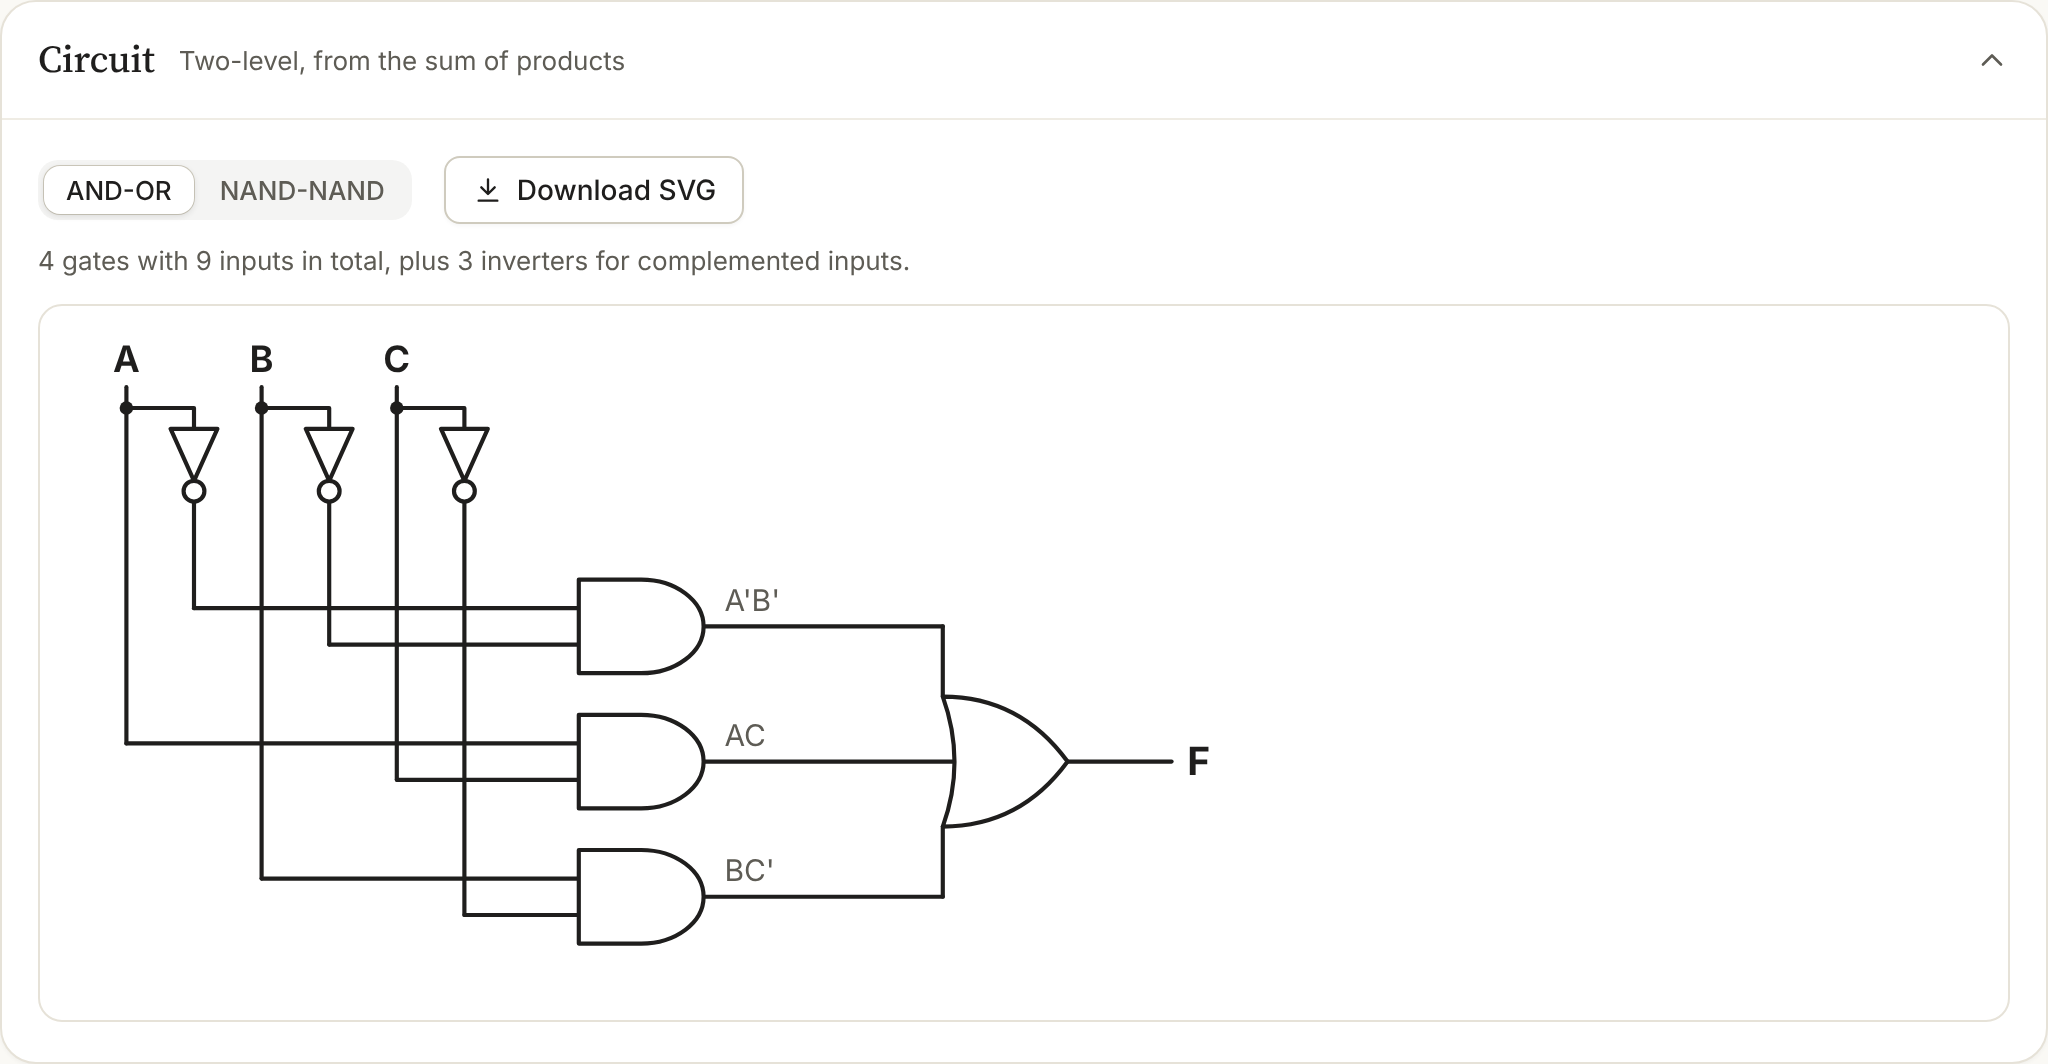
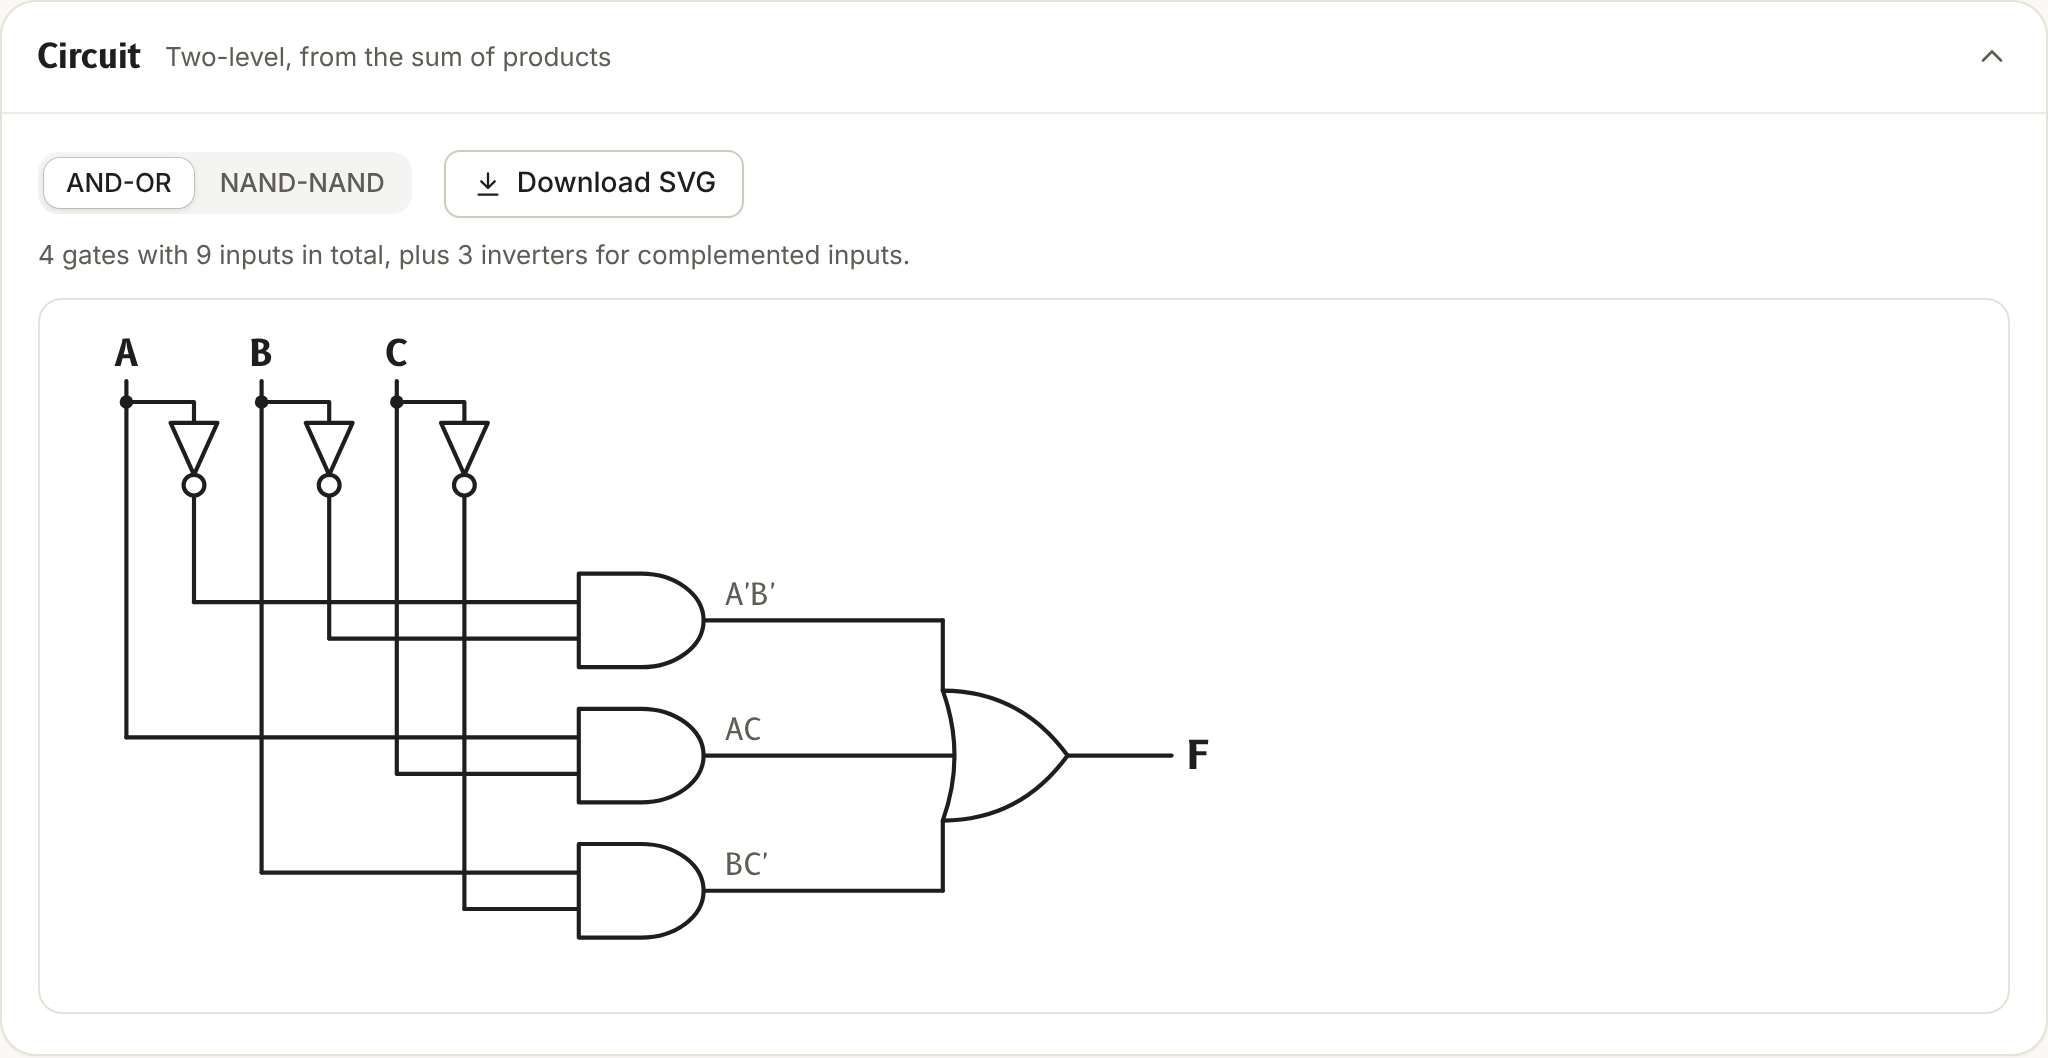
Set display type in B612 instead of a serif
The serif headings on warm cream read as generic. B612 was commissioned by
Airbus for cockpit screens, where no character may be misread, which suits a
tool where A vs A' and 0 vs O matter. It now sets headings, the brand, the
answer, map values, and circuit labels; B612 Mono sets bit patterns.

Runtime dependency change (fonts only): added @fontsource/b612 and
@fontsource/b612-mono; removed Source Serif 4 and Atkinson Hyperlegible Mono.

Claude-Session: https://claude.ai/code/session_01NFAjrh627R2bH4XXVQLLox

diff --git a/src/ui/styles.css b/src/ui/styles.css
@@ -1,6 +1,8 @@
 /* ==================================================================
-   Design tokens. The feel follows the Claude web app: warm neutrals,
-   a serif for display, a terracotta accent used sparingly.
+   Design tokens. The feel follows the Claude web app: warm neutrals and a
+   terracotta accent used sparingly. Display type is B612, the typeface Airbus
+   commissioned for cockpit screens, where no character may be misread; it sets
+   the headings, the answer, and the map values. Inter handles interface text.
    Group colors stay on the color-blind-safe Okabe-Ito set.
    ================================================================== */
 :root {
@@ -37,9 +39,9 @@
   --g7: #6f6f00;
   --g8: #3d4b5c;
 
-  --serif: 'Source Serif 4 Variable', 'Source Serif 4', Georgia, 'Times New Roman', serif;
+  --display: 'B612', 'Inter Variable', system-ui, sans-serif;
   --sans: 'Inter Variable', Inter, system-ui, -apple-system, 'Segoe UI', sans-serif;
-  --mono: 'Atkinson Hyperlegible Mono', ui-monospace, 'Cascadia Mono', Menlo, monospace;
+  --mono: 'B612 Mono', ui-monospace, 'Cascadia Mono', Menlo, monospace;
 
   --radius-sm: 8px;
   --radius: 12px;
@@ -458,9 +460,9 @@ fieldset {
   display: inline-flex;
   align-items: center;
   gap: 9px;
-  font-family: var(--serif);
-  font-size: 19px;
-  font-weight: 560;
+  font-family: var(--display);
+  font-size: 17px;
+  font-weight: 700;
   letter-spacing: -0.01em;
 }
 
@@ -658,11 +660,10 @@ fieldset {
 
 .greeting {
   margin: 20px 0 2px;
-  font-family: var(--serif);
+  font-family: var(--display);
   font-size: 34px;
-  font-weight: 400;
-  font-optical-sizing: auto;
-  letter-spacing: -0.015em;
+  font-weight: 700;
+  letter-spacing: -0.02em;
   line-height: 1.15;
   text-align: center;
 }
@@ -821,10 +822,10 @@ fieldset {
 }
 
 .card-title {
-  font-family: var(--serif);
-  font-size: 19px;
-  font-weight: 500;
-  letter-spacing: -0.005em;
+  font-family: var(--display);
+  font-size: 17px;
+  font-weight: 700;
+  letter-spacing: -0.01em;
 }
 
 .result-card {
@@ -1053,10 +1054,11 @@ fieldset {
 .val {
   position: relative;
   z-index: 2;
+  font-family: var(--display);
 }
 
 .cell.v1 .val {
-  font-weight: 650;
+  font-weight: 700;
 }
 
 .cell.v0 .val {
@@ -1244,7 +1246,7 @@ fieldset {
 .answer {
   font-size: 32px;
   line-height: 1.5;
-  font-weight: 600;
+  font-weight: 700;
   letter-spacing: -0.01em;
   overflow-wrap: anywhere;
 }
@@ -1269,7 +1271,7 @@ fieldset {
 }
 
 .expr {
-  font-feature-settings: 'ss02' 1, 'tnum' 1;
+  font-family: var(--display);
 }
 
 .expr .term-wrap > span,
@@ -1709,7 +1711,7 @@ table.chart tr.essential th {
   margin: 4px 0 0;
   padding: 0;
   list-style: none;
-  font-size: 17px;
+  font-size: 16px;
   display: grid;
   gap: 4px;
 }
@@ -1748,7 +1750,7 @@ table.chart tr.essential th {
 }
 
 .clabel {
-  font-family: var(--sans);
+  font-family: var(--display);
   font-size: 13px;
 }
 
@@ -1810,10 +1812,10 @@ table.chart tr.essential th {
 }
 
 .settings-head h2 {
-  font-family: var(--serif);
-  font-size: 24px;
-  font-weight: 500;
-  letter-spacing: -0.01em;
+  font-family: var(--display);
+  font-size: 22px;
+  font-weight: 700;
+  letter-spacing: -0.015em;
 }
 
 .settings-body {

diff --git a/src/ui/Circuit.tsx b/src/ui/Circuit.tsx
@@ -38,7 +38,7 @@ export function Circuit({ cubes, n, names, form, defaultStyle }: Props) {
     const css = getComputedStyle(svg);
     clone.setAttribute('xmlns', 'http://www.w3.org/2000/svg');
     clone.setAttribute('color', css.color);
-    clone.setAttribute('font-family', 'Atkinson Hyperlegible Next, Arial, sans-serif');
+    clone.setAttribute('font-family', 'B612, Inter, Arial, sans-serif');
     const bg = document.createElementNS('http://www.w3.org/2000/svg', 'rect');
     bg.setAttribute('width', '100%');
     bg.setAttribute('height', '100%');

diff --git a/src/main.tsx b/src/main.tsx
@@ -1,6 +1,7 @@
 import '@fontsource-variable/inter';
-import '@fontsource-variable/source-serif-4/opsz.css';
-import '@fontsource/atkinson-hyperlegible-mono/400.css';
+import '@fontsource/b612/400.css';
+import '@fontsource/b612/700.css';
+import '@fontsource/b612-mono/400.css';
 import './ui/styles.css';
 import { StrictMode } from 'react';
 import { createRoot } from 'react-dom/client';

diff --git a/docs/REQUIREMENTS.md b/docs/REQUIREMENTS.md
@@ -45,7 +45,7 @@ A free web app that simplifies any Boolean function of 2–6 variables. It must:
 | --- | --- |
 | FR-26 | **Sidebar** with *New function*, textbook examples, and *Recents*. Every function worked on is saved in Recents, titled by its minimal answer, and can be reopened or removed. On narrow screens the sidebar is a drawer; on wide screens it can be collapsed. |
 | FR-27 | **Settings dialog** with sections: *General* (variable names, 3-variable layout, variable count and answer form for new functions), *Appearance* (light, dark, or system theme; group outline animation; cell numbers), *Circuit* (default gate style), *Data* (clear Recents, reset settings), and *About*. Settings are remembered between visits. |
-| FR-28 | **Visual design** follows the feel of the Claude web app: warm neutral colors, a serif for display headings, a composer-style input, rounded cards, and a tabbed settings dialog. It uses its own name, logo, and open-source fonts. |
+| FR-28 | **Visual design** follows the feel of the Claude web app: warm neutral colors, a composer-style input, rounded cards, and a tabbed settings dialog. Display type is B612, chosen for its unambiguous characters. It uses its own name, logo, and open-source fonts. |
 
 ### Solving
 

diff --git a/README.md b/README.md
@@ -97,7 +97,7 @@ npm run dev
 ## How it's built
 
 - **TypeScript + React + Vite**, deployed to GitHub Pages by GitHub Actions on every push to `main`.
-- **Design** takes its feel from the Claude web app: warm neutrals, Source Serif 4 for headings, Inter for the interface (with its disambiguation set so 0/O and 1/l/I can't be confused), and a composer-style input. Name, logo, and fonts are its own.
+- **Design** takes its feel from the Claude web app: warm neutrals and a composer-style input. Headings, answers, and the map are set in B612, the typeface Airbus commissioned for cockpit screens so that no character can be misread (no mixing up `0` and `O`, or `1` and `l`). Interface text is Inter. Name, logo, and fonts are its own.
 - **`src/engine/`** holds all the logic in pure TypeScript with no UI code: Quine-McCluskey, the exact cover search, Petrick's method, the expression parser, map geometry, and circuit layout. **`src/ui/`** only renders it. Lint rules enforce the split.
 - Docs written before the code:
   - [Research](docs/RESEARCH.md): existing tools, algorithms, textbook conventions, common student mistakes
